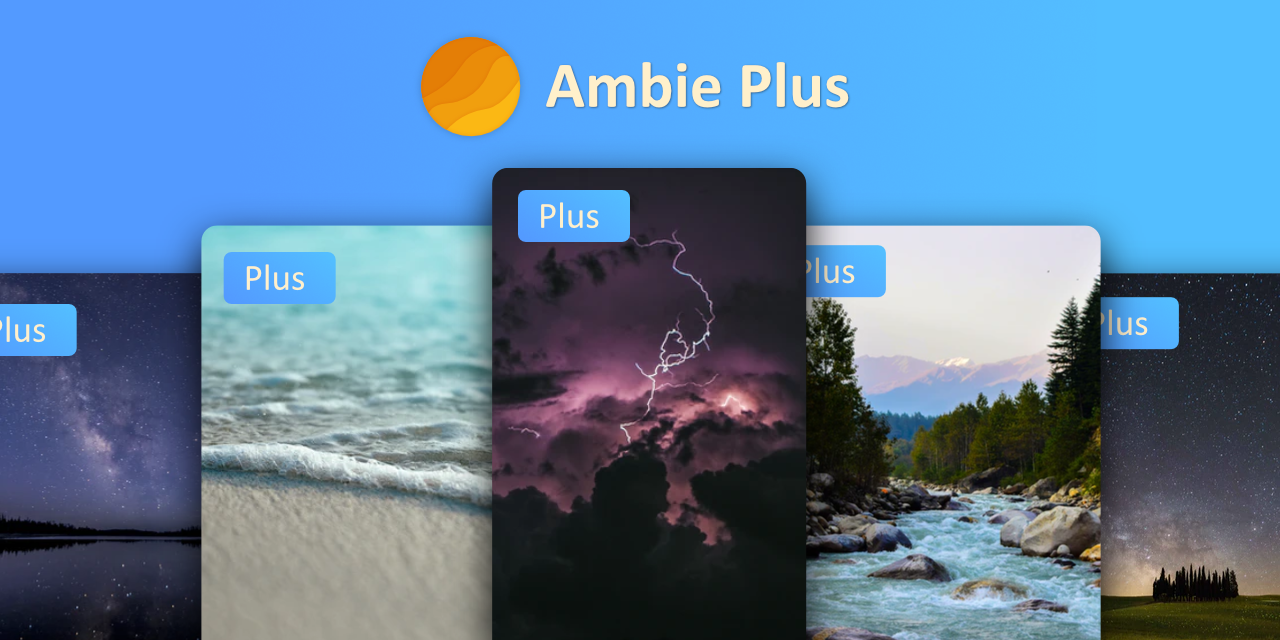
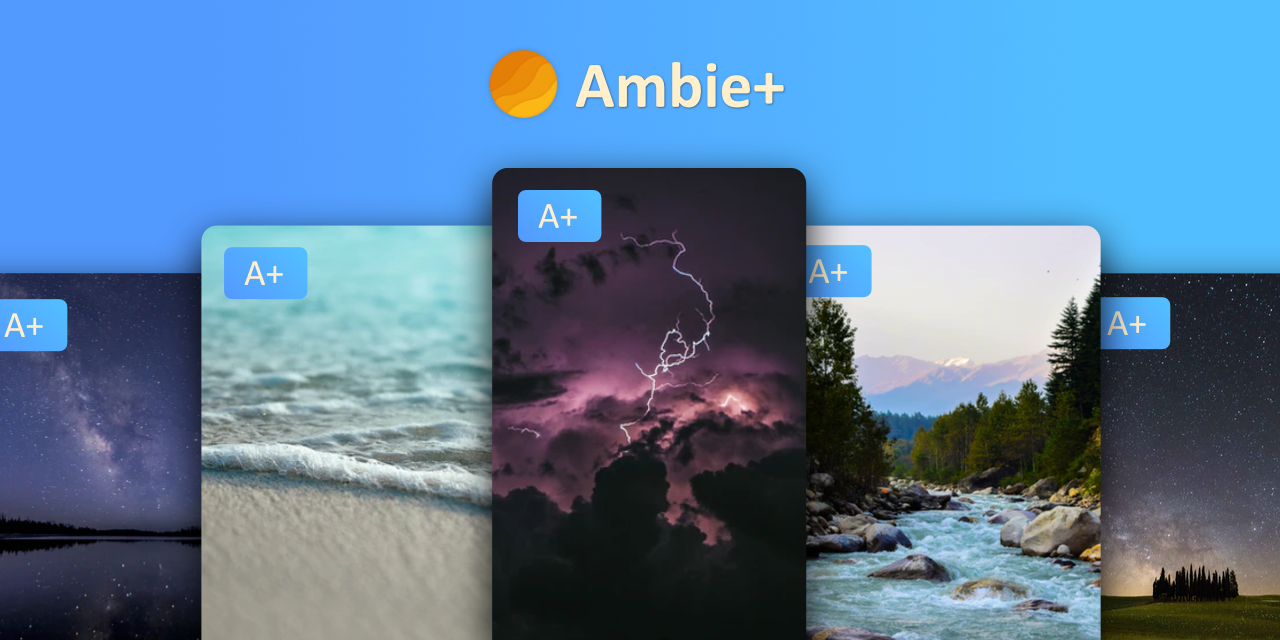
Updated image

diff --git a/src/AmbientSounds.Uwp/Controls/PremiumControl.xaml b/src/AmbientSounds.Uwp/Controls/PremiumControl.xaml
@@ -12,7 +12,7 @@
     <StackPanel Margin="0,0,0,20">
         <Image Width="400" Source="ms-appx:///Assets/ambie_plus_banner.png" />
 
-        <!--  Note: Ambie Plus is the brand name, so it doesn't need to be translated  -->
+        <!--  Note: Ambie+ is the brand name, so it doesn't need to be translated  -->
         <TextBlock
             MaxWidth="300"
             Margin="0,20,0,20"
